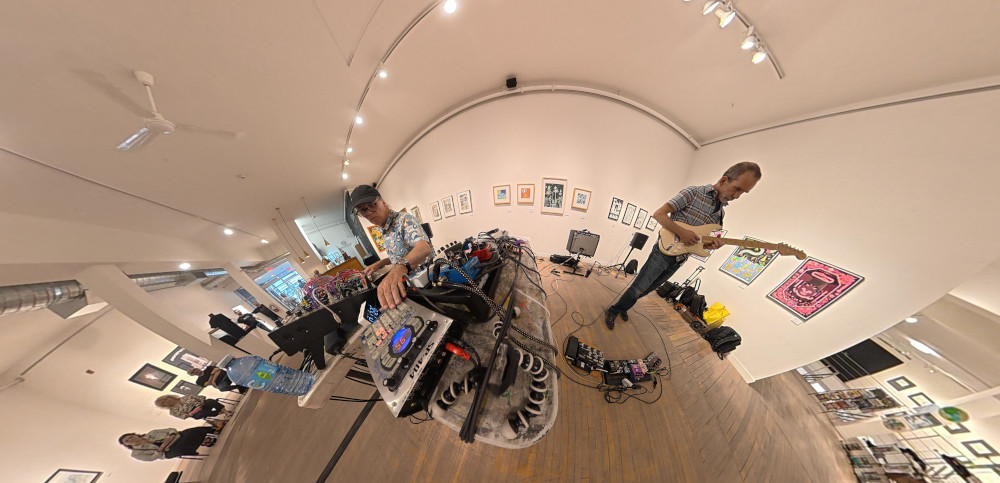
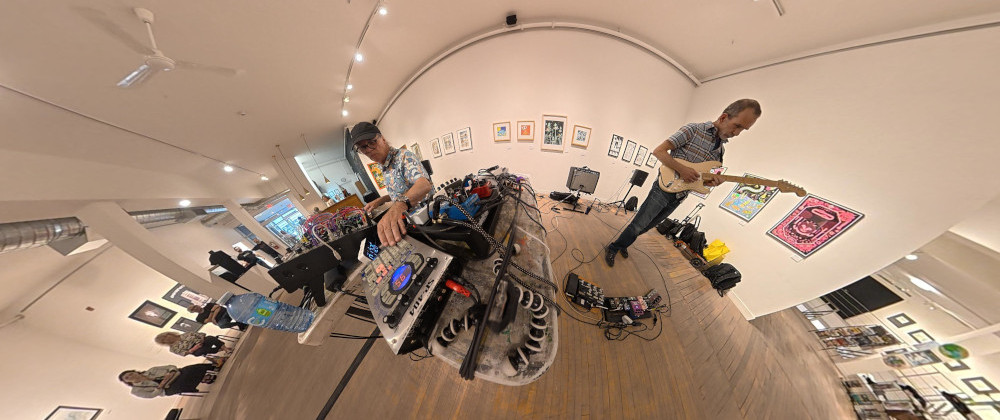
cropped the photo better

diff --git a/content/_index.md b/content/_index.md
@@ -16,7 +16,7 @@ Follow us on [Instagram](https://www.instagram.com/troutfishderby/) and [Youtube
 
 ---
 
-The band is keen to investigate performance and recording opportunities.   Email to [[email redacted]](mailto:[email redacted])
+The band is open to performance and recording opportunities.   Email to [[email redacted]](mailto:[email redacted])
 
 
 ![Live at TAP](/images/tfdAtTap.jpg)